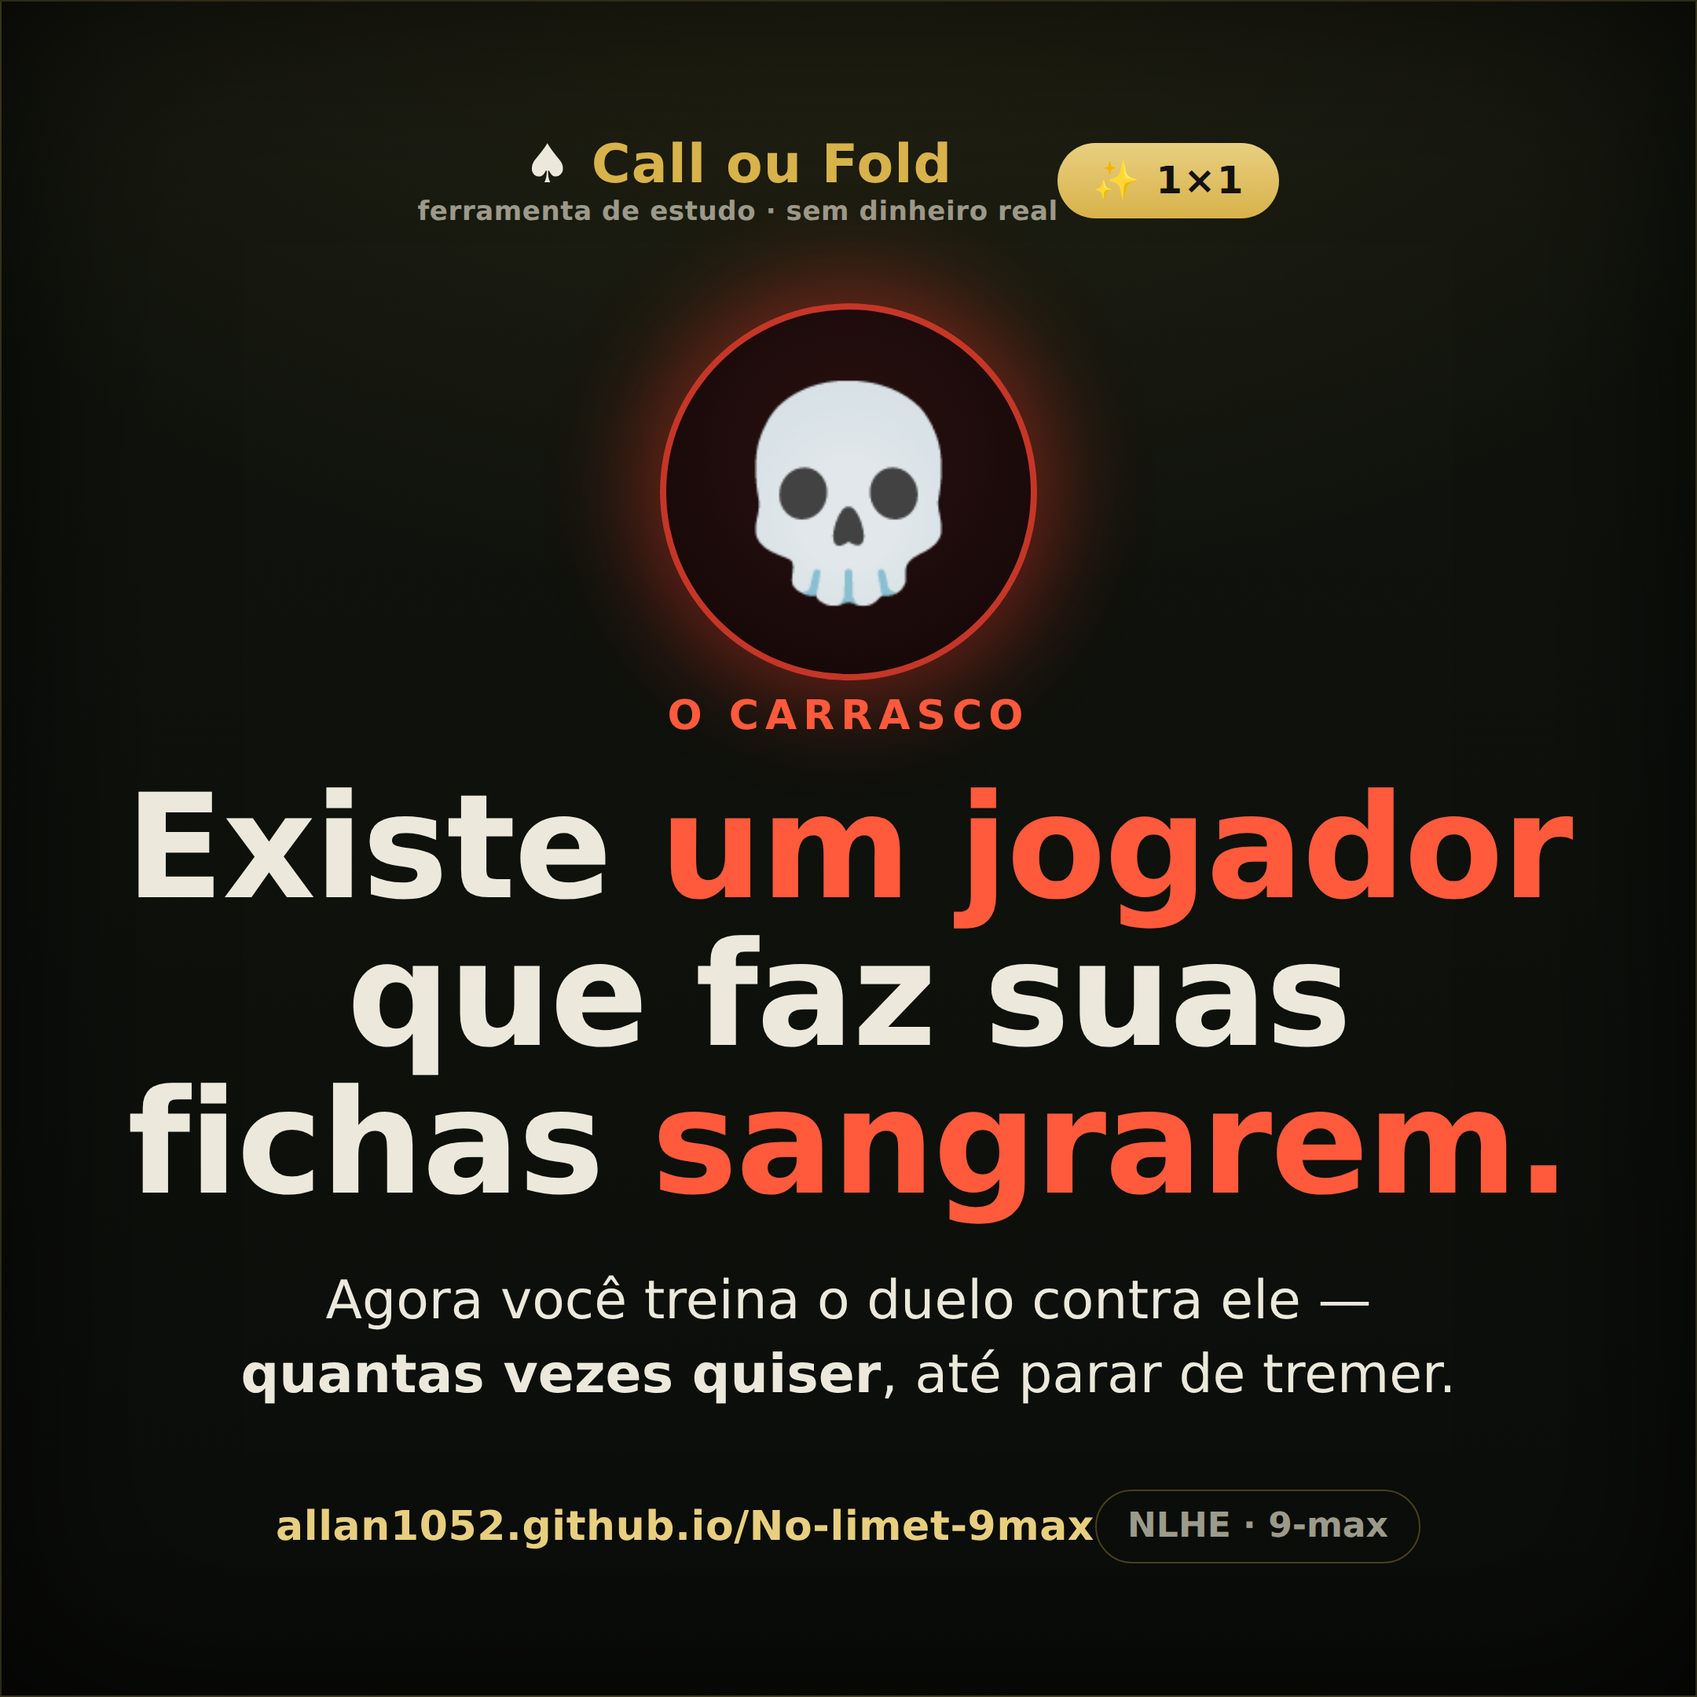
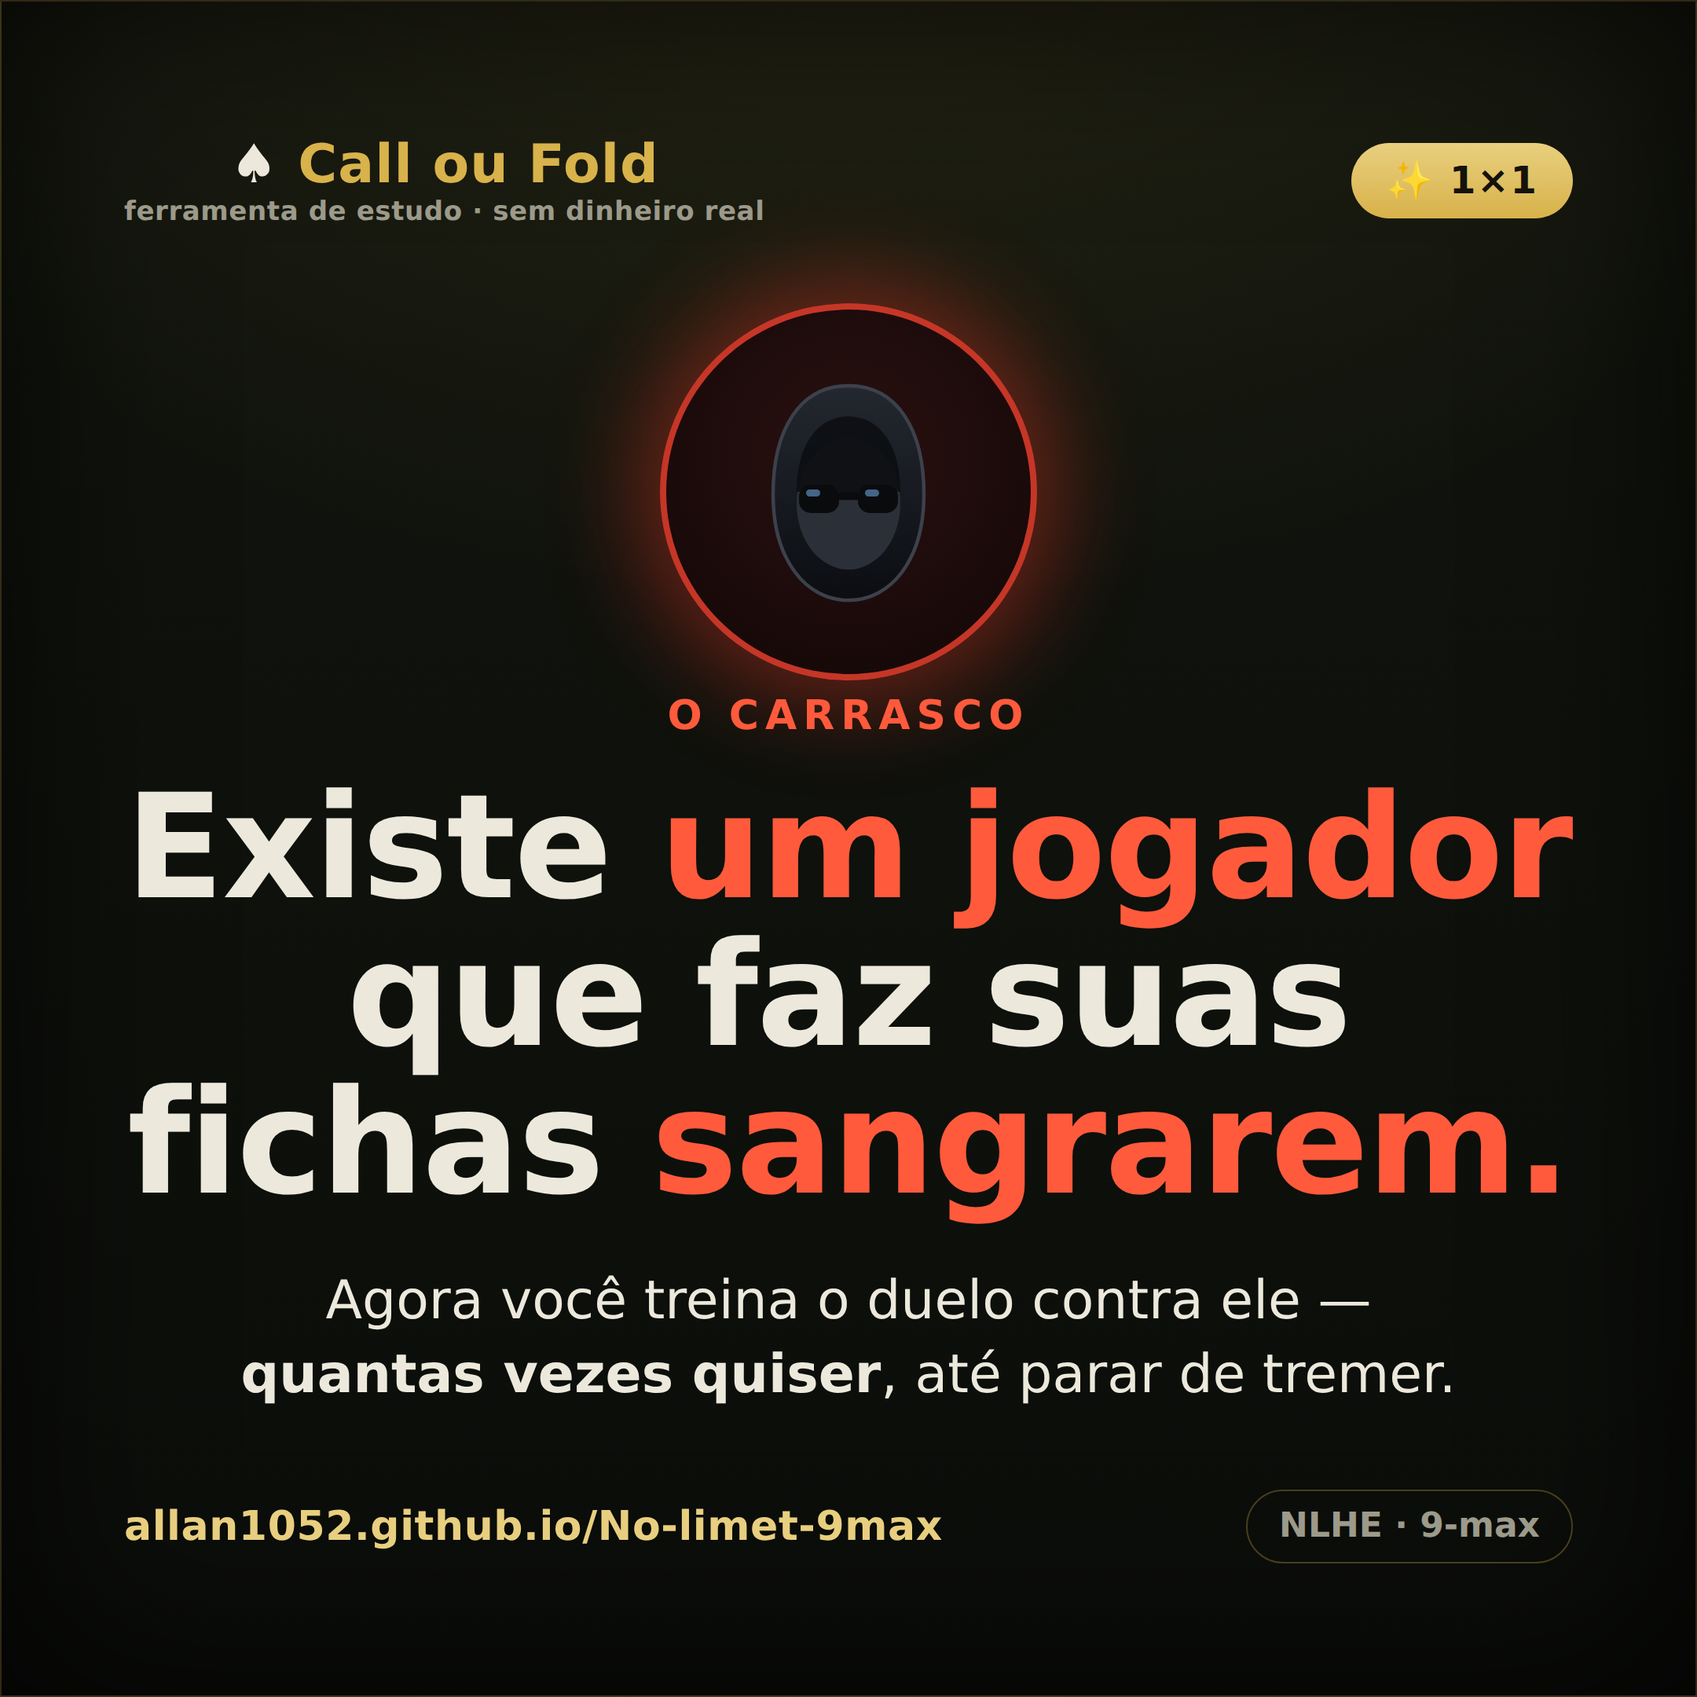
1×1: fichas voam pro carrasco quando ele leva o pote (+ vibração); caveira vira encapuzado de óculos; card 7 do feedback

diff --git a/marketing/1x1-cards.html b/marketing/1x1-cards.html
@@ -47,7 +47,7 @@
   }
 
   /* micro-marca no topo */
-  .brand-row { display: flex; align-items: center; justify-content: space-between; position: relative; z-index: 2; }
+  .brand-row { width: 100%; display: flex; align-items: center; justify-content: space-between; position: relative; z-index: 2; }
   .brand { font-weight: 900; letter-spacing: 0.5px; color: var(--gold); font-size: 34px; }
   .brand .spade { color: var(--cream); }
   .brand small { display: block; color: var(--dim); font-weight: 600; font-size: 17px; letter-spacing: 0.3px; }
@@ -67,7 +67,7 @@
   .sub { font-size: 34px; line-height: 1.4; color: var(--cream); margin-top: 30px; max-width: 820px; }
   .sub .dim { color: var(--dim); }
 
-  .foot { position: relative; z-index: 2; display: flex; align-items: center; justify-content: space-between; }
+  .foot { width: 100%; position: relative; z-index: 2; display: flex; align-items: center; justify-content: space-between; }
   .url { font-size: 26px; font-weight: 800; color: var(--gold-soft); letter-spacing: 0.3px; }
   .pill { font-size: 22px; font-weight: 700; color: var(--dim); border: 1px solid rgba(216,178,74,0.3); padding: 10px 20px; border-radius: 999px; }
   .cta {
@@ -129,6 +129,27 @@
   .v .vn { font-size: 30px; font-weight: 900; color: var(--terror); }
   .v .vt { font-size: 20px; font-style: italic; color: #ffd7cc; line-height: 1.25; margin-top: 4px; }
 
+  /* ---- Roubada de pote (fichas voando) ---- */
+  .steal { position: relative; width: 560px; height: 300px; margin: 6px auto 4px; }
+  .steal-av {
+    position: absolute; left: 50%; top: 0; transform: translateX(-50%);
+    width: 132px; height: 132px; border-radius: 50%;
+    display: flex; align-items: center; justify-content: center;
+    background: radial-gradient(circle at 50% 40%, #2a1010 0%, #120707 100%);
+    border: 4px solid rgba(255,70,50,0.8);
+    box-shadow: 0 0 55px 12px rgba(255,60,40,0.45);
+  }
+  .pchip {
+    position: absolute; width: 50px; height: 50px; border-radius: 50%;
+    border: 5px dashed rgba(255,255,255,0.72); box-shadow: 0 5px 12px rgba(0,0,0,0.55);
+  }
+  .pchip.red { background: radial-gradient(circle, #e0503b 0 58%, #b0331f 59%); }
+  .pchip.blue { background: radial-gradient(circle, #3f7fd6 0 58%, #255aa0 59%); }
+  .pchip.green { background: radial-gradient(circle, #3fae6b 0 58%, #26804b 59%); }
+  .pchip.black { background: radial-gradient(circle, #33373a 0 58%, #17191b 59%); }
+  .pchip.gold { background: radial-gradient(circle, #e8cf7f 0 58%, #b8922f 59%); }
+  .react { font-size: 30px; font-weight: 800; color: #ff8a72; margin: 6px 0 4px; }
+
   /* ---- Barra de veredito ---- */
   .verdict { display: flex; gap: 20px; margin-top: 26px; }
   .vbox { flex: 1; border-radius: 18px; padding: 26px; border: 1px solid rgba(255,255,255,0.08); }
@@ -149,7 +170,23 @@
     <div class="badge-11">✨ 1×1</div>
   </div>
   <div class="fill center">
-    <div class="terror-av">💀</div>
+    <div class="terror-av">
+      <svg viewBox="0 0 100 100" width="150" height="150" aria-hidden="true">
+        <defs><linearGradient id="hoodGradA" x1="0" y1="0" x2="0" y2="1">
+          <stop offset="0" stop-color="#232830"/><stop offset="1" stop-color="#0b0d11"/>
+        </linearGradient></defs>
+        <path d="M50 5C29 5 18 24 18 51c0 28 14 45 32 45s32-17 32-45C82 24 71 5 50 5Z" fill="url(#hoodGradA)" stroke="#3c414b" stroke-width="1.5"/>
+        <ellipse cx="50" cy="55" rx="22" ry="28" fill="#2b3038"/>
+        <path d="M28 50C28 30 37 18 50 18s22 12 22 32Z" fill="#0c0e12" opacity="0.9"/>
+        <g fill="#0a0b0d">
+          <rect x="29" y="47" width="17" height="12" rx="5"/>
+          <rect x="54" y="47" width="17" height="12" rx="5"/>
+          <rect x="45" y="50" width="10" height="3.5" rx="1.6"/>
+        </g>
+        <rect x="32" y="49" width="6" height="3" rx="1.5" fill="#7cc0ff" opacity="0.5"/>
+        <rect x="57" y="49" width="6" height="3" rx="1.5" fill="#7cc0ff" opacity="0.5"/>
+      </svg>
+    </div>
     <div class="kicker">O carrasco</div>
     <h1>Existe <span class="hl">um jogador</span> que faz suas fichas <span class="hl">sangrarem.</span></h1>
     <div class="sub">Agora você treina o duelo contra ele — <b>quantas vezes quiser</b>, até parar de tremer.</div>
@@ -219,7 +256,23 @@
     <h1 style="font-size:70px">6 carrascos. <span class="hl">6 estilos de tortura.</span></h1>
     <div class="villains">
       <div class="v"><div class="em">🦈</div><div><div class="vn">O Tubarão</div><div class="vt">"Sinto o cheiro das suas fichas na água."</div></div></div>
-      <div class="v"><div class="em">💀</div><div><div class="vn">O Ceifador</div><div class="vt">"Toda ficha sua acaba na minha pilha."</div></div></div>
+      <div class="v"><div class="em">
+        <svg viewBox="0 0 100 100" width="56" height="56" aria-hidden="true">
+          <defs><linearGradient id="hoodGradB" x1="0" y1="0" x2="0" y2="1">
+            <stop offset="0" stop-color="#232830"/><stop offset="1" stop-color="#0b0d11"/>
+          </linearGradient></defs>
+          <path d="M50 5C29 5 18 24 18 51c0 28 14 45 32 45s32-17 32-45C82 24 71 5 50 5Z" fill="url(#hoodGradB)" stroke="#3c414b" stroke-width="1.5"/>
+          <ellipse cx="50" cy="55" rx="22" ry="28" fill="#2b3038"/>
+          <path d="M28 50C28 30 37 18 50 18s22 12 22 32Z" fill="#0c0e12" opacity="0.9"/>
+          <g fill="#0a0b0d">
+            <rect x="29" y="47" width="17" height="12" rx="5"/>
+            <rect x="54" y="47" width="17" height="12" rx="5"/>
+            <rect x="45" y="50" width="10" height="3.5" rx="1.6"/>
+          </g>
+          <rect x="32" y="49" width="6" height="3" rx="1.5" fill="#7cc0ff" opacity="0.5"/>
+          <rect x="57" y="49" width="6" height="3" rx="1.5" fill="#7cc0ff" opacity="0.5"/>
+        </svg>
+      </div><div><div class="vn">O Ceifador</div><div class="vt">"Toda ficha sua acaba na minha pilha."</div></div></div>
       <div class="v"><div class="em">🧊</div><div><div class="vn">Máquina Fria</div><div class="vt">"Não tenho medo. Nem dó."</div></div></div>
       <div class="v"><div class="em">👁</div><div><div class="vn">O Vidente</div><div class="vt">"Pode decidir. Eu já sei a sua mão."</div></div></div>
       <div class="v"><div class="em">🌪</div><div><div class="vn">O Furacão</div><div class="vt">"Vou te pôr all-in até você tiltar."</div></div></div>
@@ -277,6 +330,52 @@
   <div class="foot center" style="flex-direction:column; gap:26px">
     <div class="cta">Jogar agora — allan1052.github.io/No-limet-9max</div>
     <div class="pill">PWA · PT / ES / EN · NLHE 9-max</div>
+  </div>
+</div>
+
+<!-- CARD 7 — FICHAS VOANDO / ROUBADA DE POTE -->
+<div class="card center" id="card-7">
+  <div class="brand-row">
+    <div class="brand"><span class="spade">♠</span> Call ou Fold</div>
+    <div class="badge-11">✨ 1×1</div>
+  </div>
+  <div class="fill center">
+    <div class="kicker">Cada erro dói</div>
+    <div class="steal">
+      <div class="steal-av">
+        <svg viewBox="0 0 100 100" width="82" height="82" aria-hidden="true">
+          <defs><linearGradient id="hoodGradC" x1="0" y1="0" x2="0" y2="1">
+            <stop offset="0" stop-color="#232830"/><stop offset="1" stop-color="#0b0d11"/>
+          </linearGradient></defs>
+          <path d="M50 5C29 5 18 24 18 51c0 28 14 45 32 45s32-17 32-45C82 24 71 5 50 5Z" fill="url(#hoodGradC)" stroke="#3c414b" stroke-width="1.5"/>
+          <ellipse cx="50" cy="55" rx="22" ry="28" fill="#2b3038"/>
+          <path d="M28 50C28 30 37 18 50 18s22 12 22 32Z" fill="#0c0e12" opacity="0.9"/>
+          <g fill="#0a0b0d">
+            <rect x="29" y="47" width="17" height="12" rx="5"/>
+            <rect x="54" y="47" width="17" height="12" rx="5"/>
+            <rect x="45" y="50" width="10" height="3.5" rx="1.6"/>
+          </g>
+          <rect x="32" y="49" width="6" height="3" rx="1.5" fill="#7cc0ff" opacity="0.5"/>
+          <rect x="57" y="49" width="6" height="3" rx="1.5" fill="#7cc0ff" opacity="0.5"/>
+        </svg>
+      </div>
+      <div class="pchip red"   style="left:250px; top:238px; transform:rotate(18deg)"></div>
+      <div class="pchip blue"  style="left:305px; top:214px; transform:rotate(-24deg)"></div>
+      <div class="pchip gold"  style="left:205px; top:206px; transform:rotate(30deg)"></div>
+      <div class="pchip green" style="left:288px; top:170px; transform:rotate(12deg)"></div>
+      <div class="pchip black" style="left:222px; top:162px; transform:rotate(-16deg)"></div>
+      <div class="pchip red"   style="left:262px; top:150px; transform:rotate(40deg)"></div>
+      <div class="pchip gold"  style="left:300px; top:126px; transform:rotate(-8deg)"></div>
+      <div class="pchip blue"  style="left:226px; top:120px; transform:rotate(22deg)"></div>
+      <div class="pchip green" style="left:266px; top:108px; transform:rotate(-30deg)"></div>
+    </div>
+    <div class="react">😈 “O carrasco riu — e levou essa.”</div>
+    <h1 style="font-size:78px">Errou? Ele leva o pote — e você <span class="hl">SENTE.</span></h1>
+    <div class="sub">As fichas <b>voam pro carrasco</b> e o celular <b>vibra</b> 📱. O erro que dói é o que você não esquece.</div>
+  </div>
+  <div class="foot center" style="flex-direction:column; gap:22px">
+    <div class="cta">Encare o seu carrasco → allan1052.github.io/No-limet-9max</div>
+    <div class="pill">feedback que gruda na memória</div>
   </div>
 </div>
 

diff --git a/src/ui/UltraTrainer.tsx b/src/ui/UltraTrainer.tsx
@@ -29,15 +29,55 @@ const STACK_PRESETS = [10, 20, 40, 60, 100];
 // e vira o seu terror pessoal do heads-up. Só flavor — não muda a matemática.
 const VILLAINS = [
   { id: "shark", emoji: "🦈", nameKey: "ultra.v.shark.name", tauntKey: "ultra.v.shark.taunt" },
-  { id: "reaper", emoji: "💀", nameKey: "ultra.v.reaper.name", tauntKey: "ultra.v.reaper.taunt" },
+  { id: "reaper", emoji: "", art: "hood", nameKey: "ultra.v.reaper.name", tauntKey: "ultra.v.reaper.taunt" },
   { id: "ice", emoji: "🧊", nameKey: "ultra.v.ice.name", tauntKey: "ultra.v.ice.taunt" },
   { id: "seer", emoji: "👁", nameKey: "ultra.v.seer.name", tauntKey: "ultra.v.seer.taunt" },
   { id: "hurricane", emoji: "🌪", nameKey: "ultra.v.hurricane.name", tauntKey: "ultra.v.hurricane.taunt" },
   { id: "ghost", emoji: "🎭", nameKey: "ultra.v.ghost.name", tauntKey: "ultra.v.ghost.taunt" },
-] as const satisfies ReadonlyArray<{ id: string; emoji: string; nameKey: TransKey; tauntKey: TransKey }>;
+] as const satisfies ReadonlyArray<{
+  id: string;
+  emoji: string;
+  art?: string;
+  nameKey: TransKey;
+  tauntKey: TransKey;
+}>;
 
 type Villain = (typeof VILLAINS)[number];
 const pickVillain = (): Villain => VILLAINS[Math.floor(Math.random() * VILLAINS.length)];
+
+// Rosto encapuzado de óculos escuros — o "hustler" anônimo (usado por O Ceifador).
+function HoodedFace({ size = 44 }: { size?: number }) {
+  return (
+    <svg width={size} height={size} viewBox="0 0 100 100" aria-hidden focusable="false">
+      <defs>
+        <linearGradient id="hoodGrad" x1="0" y1="0" x2="0" y2="1">
+          <stop offset="0" stopColor="#232830" />
+          <stop offset="1" stopColor="#0b0d11" />
+        </linearGradient>
+      </defs>
+      {/* silhueta do capuz */}
+      <path
+        d="M50 5C29 5 18 24 18 51c0 28 14 45 32 45s32-17 32-45C82 24 71 5 50 5Z"
+        fill="url(#hoodGrad)"
+        stroke="#3c414b"
+        strokeWidth="1.5"
+      />
+      {/* abertura do rosto (em sombra) */}
+      <ellipse cx="50" cy="55" rx="22" ry="28" fill="#2b3038" />
+      {/* sombra do capuz sobre a testa */}
+      <path d="M28 50C28 30 37 18 50 18s22 12 22 32Z" fill="#0c0e12" opacity="0.9" />
+      {/* óculos escuros */}
+      <g fill="#0a0b0d">
+        <rect x="29" y="47" width="17" height="12" rx="5" />
+        <rect x="54" y="47" width="17" height="12" rx="5" />
+        <rect x="45" y="50" width="10" height="3.5" rx="1.6" />
+      </g>
+      {/* brilho nas lentes */}
+      <rect x="32" y="49" width="6" height="3" rx="1.5" fill="#7cc0ff" opacity="0.5" />
+      <rect x="57" y="49" width="6" height="3" rx="1.5" fill="#7cc0ff" opacity="0.5" />
+    </svg>
+  );
+}
 
 export function UltraTrainer() {
   const { t } = useT();
@@ -77,7 +117,29 @@ export function UltraTrainer() {
     const item = evaluateChoice(scenario, key);
     setResult(item);
     setSession((s) => ({ correct: s.correct + (isCorrect(item) ? 1 : 0), total: s.total + 1 }));
+    // Errou = o carrasco leva o pote. Um tranco háptico pra doer de verdade.
+    if (!isCorrect(item)) {
+      try {
+        navigator.vibrate?.([45, 35, 110]);
+      } catch {
+        /* sem vibração — segue só o visual */
+      }
+    }
   };
+
+  // Fichas voando pro carrasco quando ele leva o pote (você errou).
+  // Geradas por resultado: espalhamento, atraso e giro aleatórios, estáveis no render.
+  const potChips = useMemo(() => {
+    if (!result || isCorrect(result)) return [];
+    const colors = ["red", "blue", "green", "black", "gold"];
+    return Array.from({ length: 18 }, (_, i) => ({
+      dx: Math.round((Math.random() - 0.5) * 140),
+      delay: Math.round(Math.random() * 420),
+      dur: 820 + Math.round(Math.random() * 560),
+      rot: Math.round((Math.random() - 0.5) * 340),
+      color: colors[i % colors.length],
+    }));
+  }, [result]);
 
   // Grade do spot (só depois de responder, pra não entregar a resposta antes).
   const cells = useMemo(() => {
@@ -181,7 +243,11 @@ export function UltraTrainer() {
           <div className="duel spotlight">
             <div className="duel-seat villain terror">
               <div className="villain-av">
-                <span className="villain-emoji">{villain.emoji}</span>
+                {"art" in villain ? (
+                  <HoodedFace />
+                ) : (
+                  <span className="villain-emoji">{villain.emoji}</span>
+                )}
                 {s.raiserPosition ? <span className="duel-pos vil">{s.raiserPosition}</span> : null}
               </div>
               <div className="villain-name">{t(villain.nameKey)}</div>
@@ -219,6 +285,25 @@ export function UltraTrainer() {
                 {t("ultra.you")} · {s.effectiveBB}bb
               </div>
             </div>
+
+            {potChips.length > 0 ? (
+              <div className="chips-fly" aria-hidden>
+                {potChips.map((c, i) => (
+                  <span
+                    key={i}
+                    className={`chip ${c.color}`}
+                    style={
+                      {
+                        "--dx": `${c.dx}px`,
+                        "--rot": `${c.rot}deg`,
+                        animationDelay: `${c.delay}ms`,
+                        animationDuration: `${c.dur}ms`,
+                      } as React.CSSProperties
+                    }
+                  />
+                ))}
+              </div>
+            ) : null}
           </div>
         </div>
 

diff --git a/src/ui/theme.css b/src/ui/theme.css
@@ -1523,6 +1523,43 @@ table.stats tr.hero-row td.pname { color: var(--gold); }
   color: #fff; opacity: 0.5; letter-spacing: 1px;
 }
 
+/* Fichas voando do pote pro carrasco quando ele leva a mão (você errou). */
+.chips-fly {
+  position: absolute; left: 50%; top: 52%;
+  width: 0; height: 0; z-index: 4; pointer-events: none;
+}
+.chips-fly .chip {
+  position: absolute; left: -10px; top: -10px;
+  width: 20px; height: 20px; border-radius: 50%;
+  border: 3px dashed rgba(255, 255, 255, 0.7);
+  box-shadow: 0 2px 5px rgba(0, 0, 0, 0.55);
+  opacity: 0;
+  animation-name: chip-fly;
+  animation-timing-function: cubic-bezier(0.2, 0.7, 0.3, 1);
+  animation-fill-mode: both;
+}
+@keyframes chip-fly {
+  0% { transform: translate(0, 8px) scale(0.5) rotate(0deg); opacity: 0; }
+  15% { opacity: 1; }
+  80% { opacity: 1; }
+  100% { transform: translate(var(--dx), -158px) scale(0.95) rotate(var(--rot)); opacity: 0; }
+}
+.chip.red { background: radial-gradient(circle, #e0503b 0 58%, #b0331f 59%); }
+.chip.blue { background: radial-gradient(circle, #3f7fd6 0 58%, #255aa0 59%); }
+.chip.green { background: radial-gradient(circle, #3fae6b 0 58%, #26804b 59%); }
+.chip.black { background: radial-gradient(circle, #33373a 0 58%, #17191b 59%); }
+.chip.gold { background: radial-gradient(circle, #e8cf7f 0 58%, #b8922f 59%); }
+
+/* O carrasco dá uma investida ao arrastar as fichas. */
+.arena.lost .villain-av {
+  animation: terror-aura 1.8s ease-in-out infinite, terror-grab 0.55s ease-out;
+}
+@keyframes terror-grab {
+  0% { transform: scale(1); }
+  35% { transform: scale(1.18) translateY(5px); }
+  100% { transform: scale(1); }
+}
+
 @media (prefers-reduced-motion: reduce) {
-  .arena-headsup, .villain-av { animation: none; }
+  .arena-headsup, .villain-av, .chips-fly .chip, .arena.lost .villain-av { animation: none; }
 }
